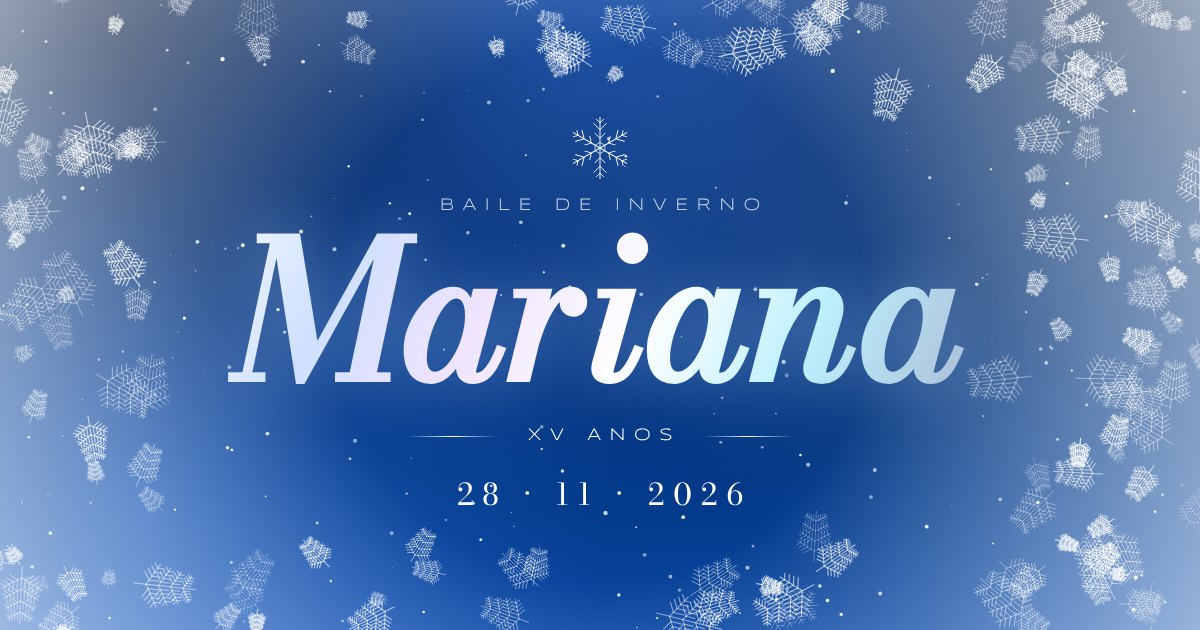
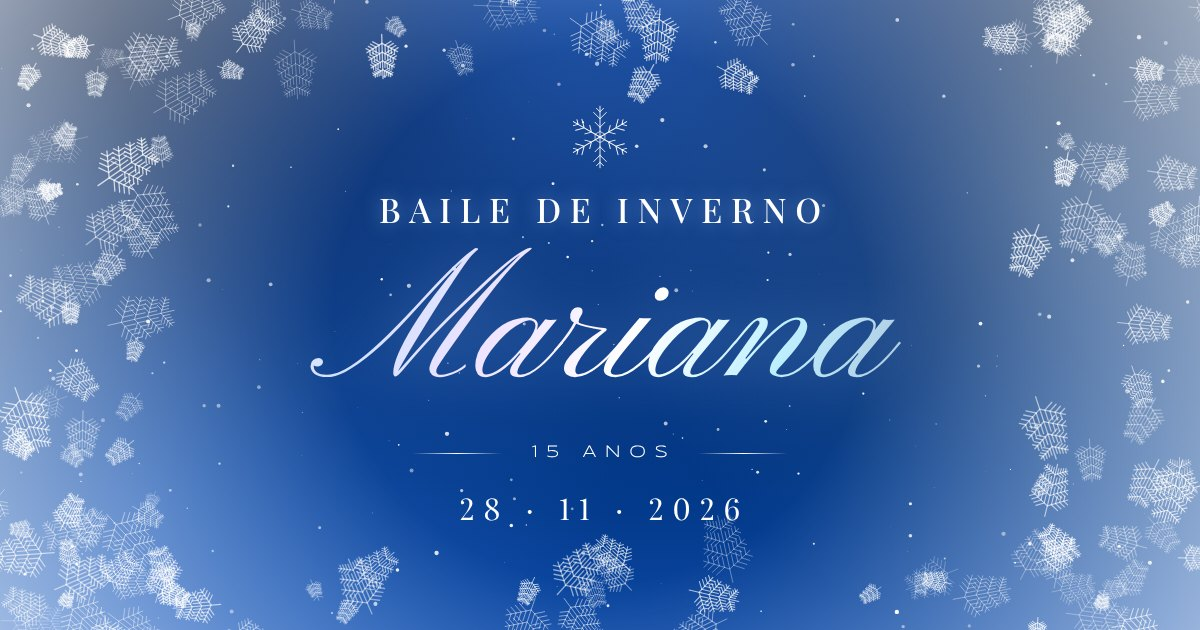
4.0

diff --git a/index.html b/index.html
@@ -3,12 +3,12 @@
 <head>
   <meta charset="UTF-8" />
   <meta name="viewport" content="width=device-width, initial-scale=1.0, viewport-fit=cover" />
-  <title>Mariana • XV Anos • Baile de Inverno</title>
+  <title>Mariana • 15 Anos • Baile de Inverno</title>
   <meta name="description" content="Você está convidado(a) para o Baile de Inverno dos 15 anos da Mariana — 28/11/2026, Buffet Piatto." />
   <!-- Prévia do WhatsApp: se o subdomínio for outro, troque o endereço abaixo -->
   <meta property="og:type" content="website" />
   <meta property="og:url" content="https://marianaxv.convidaeu.com.br/" />
-  <meta property="og:title" content="Mariana • XV Anos" />
+  <meta property="og:title" content="Mariana • 15 Anos" />
   <meta property="og:description" content="Baile de Inverno • 28.11.2026 • Buffet Piatto — toque para abrir o convite 💙" />
   <meta property="og:image" content="https://marianaxv.convidaeu.com.br/og.jpg" />
   <meta property="og:image:width" content="1200" />
@@ -17,13 +17,13 @@
   <meta name="theme-color" content="#001c4d" />
   <link rel="preconnect" href="https://fonts.googleapis.com">
   <link rel="preconnect" href="https://fonts.gstatic.com" crossorigin>
-  <link href="https://fonts.googleapis.com/css2?family=Bodoni+Moda:ital,opsz,wght@0,6..96,400..600;1,6..96,400..600&family=Manrope:wght@300;400;500;600&family=Syncopate:wght@400;700&display=swap" rel="stylesheet">
+  <link href="https://fonts.googleapis.com/css2?family=Playfair+Display:ital,wght@0,400..700;1,400..700&family=Great+Vibes&family=Pinyon+Script&family=Manrope:wght@300;400;500;600&family=Syncopate:wght@400;700&display=swap" rel="stylesheet">
   <style>
     :root{
       --royal-950:#000f2e; --royal-900:#001c4d; --royal-800:#013684; --royal-700:#0d4aa6; --royal-500:#2f6fd0;
       --ice:#e8eff9; --mist:rgba(232,239,249,.72); --hair:rgba(220,232,250,.32);
       --tx:0; --ty:0;
-      --serif:'Bodoni Moda',Didot,'Times New Roman',serif;
+      --serif:'Playfair Display',Georgia,'Times New Roman',serif;
       --wide:'Syncopate','Manrope',system-ui,sans-serif;
       --sans:'Manrope',system-ui,sans-serif;
     }
@@ -70,24 +70,26 @@
     /* ================= HERO (primeira tela) ================= */
     .hero{position:relative;z-index:2;min-height:100vh;min-height:100svh;display:flex;flex-direction:column;align-items:center;justify-content:center;
       text-align:center;padding:calc(56px + env(safe-area-inset-top)) 18px 110px}
+    .tema-hero{font-family:var(--serif);font-weight:500;text-transform:uppercase;font-size:clamp(1.05rem,5.2vw,1.45rem);letter-spacing:.26em;padding-left:.26em;color:#fff;
+      text-shadow:0 0 18px rgba(170,205,255,.45)}
     .cristal{width:86px;height:86px;margin:26px auto 18px;display:block;animation:gira 60s linear infinite;
       transform-origin:center;filter:drop-shadow(0 0 10px rgba(190,215,255,.55))}
     @keyframes gira{to{transform:rotate(360deg)}}
-    .nome{font-family:var(--serif);font-style:italic;font-weight:400;font-size:clamp(4.4rem,23vw,8.4rem);line-height:.92;letter-spacing:-.01em;
+    .nome{font-family:var(--fonte-nome,var(--serif));font-style:var(--estilo-nome,italic);font-weight:var(--peso-nome,500);font-size:calc(clamp(3.9rem,19vw,7.4rem) * var(--escala-nome,1));line-height:1.08;letter-spacing:0;
       padding:.08em .12em .14em}
     .xv{display:flex;align-items:center;gap:14px;margin-top:14px}
     .xv .fio{width:52px}
     .xv b{font-family:var(--wide);font-weight:400;font-size:11px;text-transform:uppercase;letter-spacing:.62em;padding-left:.62em;color:#fff}
-    .hero-data{margin-top:34px;font-family:var(--serif);font-size:1.15rem;letter-spacing:.32em;color:var(--ice)}
+    .hero-data{margin-top:34px;font-variant-numeric:lining-nums;font-family:var(--serif);font-size:1.15rem;letter-spacing:.32em;color:var(--ice)}
     .role{position:absolute;left:50%;bottom:calc(34px + env(safe-area-inset-bottom));transform:translateX(-50%);display:flex;flex-direction:column;align-items:center;gap:10px;
       opacity:0;transition:opacity 1s ease 1.2s}
     .aberto .role{opacity:1}
     .role i{display:block;width:1px;height:42px;background:linear-gradient(#fff,transparent);transform-origin:top;animation:desce 2.2s ease-in-out infinite}
     @keyframes desce{0%{transform:scaleY(0);opacity:1}60%{transform:scaleY(1);opacity:1}100%{transform:scaleY(1);opacity:0}}
     /* faixa de luz que passa pelo nome quando o gelo some */
-    .nome-wrap{position:relative;overflow:hidden}
+    .nome-wrap{position:relative}
     .nome-wrap::after{content:"";position:absolute;inset:0;background:linear-gradient(105deg,transparent 35%,rgba(255,255,255,.55) 50%,transparent 65%);
-      transform:translateX(-120%);mix-blend-mode:overlay;pointer-events:none}
+      transform:translateX(-120%);opacity:.45;pointer-events:none}
     .aberto .nome-wrap::after{animation:varre 1.6s ease .3s 1 forwards}
     @keyframes varre{to{transform:translateX(120%)}}
 
@@ -140,7 +142,7 @@
     .foto{max-width:300px;margin:0 auto;padding:10px;border:1px solid var(--hair);border-radius:200px 200px 18px 18px}
     .foto img{display:block;width:100%;aspect-ratio:3/4;object-fit:cover;border-radius:190px 190px 12px 12px}
 
-    .data-grande{font-family:var(--serif);font-weight:400;font-size:clamp(6rem,34vw,10.5rem);line-height:.86;letter-spacing:-.03em}
+    .data-grande{font-family:var(--serif);font-weight:400;font-variant-numeric:lining-nums;font-size:clamp(6rem,34vw,10.5rem);line-height:.86;letter-spacing:-.03em}
     .data-grande .pt{font-size:.5em;vertical-align:.32em;margin:0 .02em}
     .data-sub{margin-top:18px}
     .hora{display:flex;align-items:baseline;justify-content:center;gap:14px;margin-top:38px}
@@ -200,7 +202,7 @@
     .agenda svg{width:15px;height:15px}
 
     .fim{padding:40px 24px calc(40px + env(safe-area-inset-bottom));text-align:center}
-    .fim .assin{font-family:var(--serif);font-style:italic;font-size:1.5rem}
+    .fim .assin{font-family:var(--fonte-nome,var(--serif));font-style:var(--estilo-nome,italic);font-size:calc(1.6rem * var(--escala-nome,1))}
     .fim .wide{display:block;margin-top:10px;font-size:8.5px}
     .fim .marca{margin-top:46px;font-size:11px;color:rgba(255,255,255,.5);letter-spacing:.05em}
     .fim .marca a{color:rgba(255,255,255,.85);font-weight:600;text-decoration:none}
@@ -243,7 +245,7 @@
   <main id="convite">
     <!-- ===== HERO ===== -->
     <header class="hero" id="hero">
-      <p class="wide">Baile de Inverno</p>
+      <p class="tema-hero">Baile de Inverno</p>
 
       <svg class="cristal" viewBox="-50 -50 100 100" aria-hidden="true">
         <defs>
@@ -263,7 +265,7 @@
       </svg>
 
       <div class="nome-wrap"><h1 class="nome holo brilho" id="f-nome">Mariana</h1></div>
-      <div class="xv"><span class="fio"></span><b>XV Anos</b><span class="fio"></span></div>
+      <div class="xv"><span class="fio"></span><b>15 Anos</b><span class="fio"></span></div>
       <p class="hero-data" id="f-hero-data">28 · 11 · 2026</p>
 
       <div class="role" aria-hidden="true"><span class="wide" style="font-size:8px">role</span><i></i></div>
@@ -361,6 +363,7 @@
       texto: 'Em uma noite de inverno, entre luzes, cristais e flocos de neve, vou celebrar meus 15 anos. Será uma honra ter você comigo nesse baile, para viver cada momento dessa noite dos sonhos.',
       observacao: 'Para que a debutante brilhe ainda mais em sua noite dos sonhos, pedimos, com carinho, que os convidados evitem o uso de azul-claro em seus looks.',
       observacao2: 'Contamos com a compreensão e o carinho de todos! 💙',
+      fonteNome: 'pinyon',     // letra do nome: 'playfair' (itálico) | 'greatvibes' (cursiva) | 'pinyon' (caligrafia)
       musica: true,            // false = convite sem música
       volume: 0.55,            // 0 a 1
       duracaoHoras: 5          // usado só no "Salvar na agenda"
@@ -373,13 +376,25 @@
     const semana = ['Domingo','Segunda-feira','Terça-feira','Quarta-feira','Quinta-feira','Sexta-feira','Sábado'];
     const inicio = new Date(`${CONFIG.data}T${CONFIG.horario || '00:00'}:00-03:00`); // horário de Brasília
 
+    /* ---------- Letra do nome ---------- */
+    (function(){
+      const F = {
+        playfair:   ["'Playfair Display',Georgia,serif", 'italic', '500', 1],
+        greatvibes: ["'Great Vibes',cursive", 'normal', '400', 1.2],
+        pinyon:     ["'Pinyon Script',cursive", 'normal', '400', 1.05]
+      }[CONFIG.fonteNome] || ["'Playfair Display',Georgia,serif", 'italic', '500', 1];
+      const st = document.documentElement.style;
+      st.setProperty('--fonte-nome', F[0]); st.setProperty('--estilo-nome', F[1]);
+      st.setProperty('--peso-nome', F[2]); st.setProperty('--escala-nome', F[3]);
+    })();
+
     /* ---------- Textos ---------- */
     $('f-nome').textContent = CONFIG.nome;
     $('f-assin').textContent = CONFIG.nome;
     $('f-hero-data').textContent = `${dia} · ${mes} · ${ano}`;
     $('f-data-grande').innerHTML = `${dia}<span class="pt">.</span>${mes}`;
     $('f-semana').textContent = `${semana[new Date(`${CONFIG.data}T12:00:00-03:00`).getUTCDay()]} · ${ano}`;
-    $('f-assin2').textContent = `XV Anos · ${dia}.${mes}.${ano}`;
+    $('f-assin2').textContent = `15 Anos · ${dia}.${mes}.${ano}`;
     if (CONFIG.texto) $('f-texto').textContent = CONFIG.texto; else $('f-texto').closest('section').remove();
     if (!CONFIG.musica) $('abrirAlt').textContent = 'ou toque aqui para abrir';
 
@@ -538,22 +553,24 @@
     })(0);
 
     /* =========================================================
-       MÚSICA — valsa de caixinha de música, composta e tocada
-       pelo próprio navegador (não usa arquivo de áudio).
+       MÚSICA — faixa eletrônica original (pista, estilo "Alok"),
+       tocada pelo próprio navegador (não usa arquivo de áudio).
        ========================================================= */
     const Musica = (() => {
-      let ctx, master, bus, lp, ligada = false, prox = 0, compasso = 0;
-      const BEAT = 60 / 84;
+      let ctx, master, bus, duck, delayIn, ruido, ligada = false, prox = 0, passo = 0;
+      const BPM = 124, SEMI = 60 / BPM / 4;            // duração de 1/16
       const hz = (m) => 440 * Math.pow(2, (m - 69) / 12);
-      const ACORDE = { D:[62,66,69], Bm:[59,62,66], G:[55,59,62], A:[57,61,64], Fm:[54,57,61] };
-      const BAIXO  = { D:50, Bm:47, G:43, A:45, Fm:42 };
-      const SEQ = ['D','Bm','G','A', 'D','Fm','G','A', 'Bm','G','D','A', 'G','A','D','D'];
-      const MELODIA = [
-        [[78,2],[81,1]], [[83,2],[81,1]], [[79,1],[78,1],[76,1]], [[76,2],[73,1]],
-        [[74,2],[78,1]], [[81,2],[85,1]], [[83,1],[81,1],[79,1]], [[81,3]],
-        [[86,2],[83,1]], [[83,2],[79,1]], [[81,2],[78,1]], [[76,2],[81,1]],
-        [[79,1],[83,1],[86,1]], [[85,1.5],[83,.5],[81,1]], [[78,1],[81,1],[86,1]], [[86,3]]
+      // Si menor – Sol – Ré – Lá
+      const ACORDES = [[59,62,66,71], [59,62,67,71], [57,62,66,69], [57,61,64,69]];
+      const BAIXO = [47, 43, 50, 45];
+      const LEAD = [
+        {0:78, 3:81, 6:83, 8:81, 10:78, 12:76, 14:78},
+        {0:83, 3:81, 6:79, 8:78, 10:79, 12:83, 14:81},
+        {0:81, 3:78, 6:74, 8:78, 10:81, 12:86, 14:85},
+        {0:85, 3:83, 6:81, 8:76, 10:81, 12:83, 14:85}
       ];
+      const INTRO = 2;                                 // compassos sem batida antes do "drop"
+
       function eco(seg) {
         const len = Math.floor(ctx.sampleRate * seg), buf = ctx.createBuffer(2, len, ctx.sampleRate);
         for (let c = 0; c < 2; c++) { const d = buf.getChannelData(c); for (let i = 0; i < len; i++) d[i] = (Math.random() * 2 - 1) * Math.pow(1 - i / len, 3); }
@@ -562,59 +579,93 @@
       function montar() {
         const AC = window.AudioContext || window.webkitAudioContext;
         ctx = new AC();
-        const comp = ctx.createDynamicsCompressor();
+        const comp = ctx.createDynamicsCompressor(); comp.threshold.value = -14; comp.ratio.value = 4;
         master = ctx.createGain(); master.gain.value = 0.0001;
-        bus = ctx.createGain();
-        const seco = ctx.createGain(); seco.gain.value = 0.8;
-        const molhado = ctx.createGain(); molhado.gain.value = 0.5;
-        const rev = ctx.createConvolver(); rev.buffer = eco(2.8);
-        bus.connect(seco); bus.connect(rev); rev.connect(molhado);
-        seco.connect(master); molhado.connect(master);
+        bus = ctx.createGain(); bus.connect(master);
+        const rev = ctx.createConvolver(); rev.buffer = eco(2.2);
+        const molhado = ctx.createGain(); molhado.gain.value = 0.28;
+        bus.connect(rev); rev.connect(molhado); molhado.connect(master);
+        duck = ctx.createGain(); duck.connect(bus);     // acordes "respiram" a cada batida
+        delayIn = ctx.createGain();                     // eco rítmico da melodia
+        const dl = ctx.createDelay(1); dl.delayTime.value = SEMI * 3;
+        const fb = ctx.createGain(); fb.gain.value = 0.32;
+        const dw = ctx.createGain(); dw.gain.value = 0.3;
+        delayIn.connect(bus); delayIn.connect(dl); dl.connect(fb); fb.connect(dl); dl.connect(dw); dw.connect(bus);
         master.connect(comp); comp.connect(ctx.destination);
-        lp = ctx.createBiquadFilter(); lp.type = 'lowpass'; lp.frequency.value = 900; lp.connect(bus);
+        ruido = ctx.createBuffer(1, ctx.sampleRate, ctx.sampleRate);
+        const d = ruido.getChannelData(0); for (let i = 0; i < d.length; i++) d[i] = Math.random() * 2 - 1;
       }
-      function caixinha(m, t, vol, dur = 2.4) {
-        const f = hz(m);
-        [[1, 1, dur], [2, .26, dur * .5], [3.98, .07, dur * .22]].forEach(([mul, g, d]) => {
-          const o = ctx.createOscillator(), a = ctx.createGain();
-          o.type = 'sine'; o.frequency.value = f * mul;
-          a.gain.setValueAtTime(0.0001, t);
-          a.gain.exponentialRampToValueAtTime(vol * g, t + 0.006);
-          a.gain.exponentialRampToValueAtTime(0.0001, t + d);
-          o.connect(a); a.connect(bus); o.start(t); o.stop(t + d + 0.05);
-        });
+      function env(a, t, pico, dur, ataque = 0.004) {
+        a.gain.setValueAtTime(0.0001, t);
+        a.gain.exponentialRampToValueAtTime(pico, t + ataque);
+        a.gain.exponentialRampToValueAtTime(0.0001, t + dur);
       }
-      function fundo(notas, t, dur) {
-        notas.forEach((m) => [-5, 5].forEach((det) => {
+      function bumbo(t) {
+        const o = ctx.createOscillator(), a = ctx.createGain();
+        o.type = 'sine'; o.frequency.setValueAtTime(165, t); o.frequency.exponentialRampToValueAtTime(48, t + 0.12);
+        env(a, t, 0.95, 0.38); o.connect(a); a.connect(master); o.start(t); o.stop(t + 0.4);
+        chiado(t, 0.06, 0.012, 'lowpass', 3500);
+        duck.gain.cancelScheduledValues(t);
+        duck.gain.setValueAtTime(0.3, t); duck.gain.linearRampToValueAtTime(1, t + 0.24);
+      }
+      function chiado(t, vol, dur, tipo, freq) {
+        const s = ctx.createBufferSource(), f = ctx.createBiquadFilter(), a = ctx.createGain();
+        s.buffer = ruido; f.type = tipo; f.frequency.value = freq;
+        env(a, t, vol, dur, 0.002); s.connect(f); f.connect(a); a.connect(bus);
+        s.start(t, Math.random() * 0.9, dur + 0.03);
+      }
+      function palma(t) {
+        chiado(t, 0.16, 0.02, 'bandpass', 1400); chiado(t + 0.012, 0.16, 0.02, 'bandpass', 1400);
+        chiado(t + 0.024, 0.3, 0.17, 'bandpass', 1300);
+      }
+      function baixo(m, t, dur) {
+        const o = ctx.createOscillator(), sub = ctx.createOscillator(), f = ctx.createBiquadFilter(), a = ctx.createGain(), as = ctx.createGain();
+        o.type = 'sawtooth'; o.frequency.value = hz(m); sub.type = 'sine'; sub.frequency.value = hz(m);
+        f.type = 'lowpass'; f.Q.value = 6;
+        f.frequency.setValueAtTime(220, t); f.frequency.exponentialRampToValueAtTime(1100, t + 0.03); f.frequency.exponentialRampToValueAtTime(260, t + dur);
+        env(a, t, 0.28, dur); env(as, t, 0.22, dur);
+        o.connect(f); f.connect(a); a.connect(master); sub.connect(as); as.connect(master);
+        o.start(t); sub.start(t); o.stop(t + dur + 0.05); sub.stop(t + dur + 0.05);
+      }
+      function acorde(notas, t, dur, vol) {
+        const f = ctx.createBiquadFilter(); f.type = 'lowpass'; f.frequency.value = 1900; f.connect(duck);
+        notas.forEach((m) => [-9, 0, 9].forEach((det) => {
           const o = ctx.createOscillator(), a = ctx.createGain();
-          o.type = 'triangle'; o.frequency.value = hz(m); o.detune.value = det;
-          a.gain.setValueAtTime(0.0001, t);
-          a.gain.linearRampToValueAtTime(0.022, t + 0.7);
-          a.gain.setValueAtTime(0.022, t + dur - 0.2);
-          a.gain.linearRampToValueAtTime(0.0001, t + dur + 0.7);
-          o.connect(a); a.connect(lp); o.start(t); o.stop(t + dur + 0.8);
+          o.type = 'sawtooth'; o.frequency.value = hz(m); o.detune.value = det;
+          a.gain.setValueAtTime(0.0001, t); a.gain.linearRampToValueAtTime(vol, t + 0.03);
+          a.gain.setValueAtTime(vol, t + dur - 0.08); a.gain.linearRampToValueAtTime(0.0001, t + dur + 0.12);
+          o.connect(a); a.connect(f); o.start(t); o.stop(t + dur + 0.15);
         }));
       }
-      function baixo(m, t) {
-        [[1, .16], [2, .07]].forEach(([mul, g]) => {
-          const o = ctx.createOscillator(), a = ctx.createGain();
-          o.type = 'sine'; o.frequency.value = hz(m) * mul;
-          a.gain.setValueAtTime(0.0001, t);
-          a.gain.exponentialRampToValueAtTime(g, t + 0.02);
-          a.gain.exponentialRampToValueAtTime(0.0001, t + 1.8);
-          o.connect(a); a.connect(bus); o.start(t); o.stop(t + 1.9);
-        });
+      function pluck(m, t, vol) {
+        const o = ctx.createOscillator(), f = ctx.createBiquadFilter(), a = ctx.createGain();
+        o.type = 'square'; o.frequency.value = hz(m);
+        f.type = 'lowpass'; f.frequency.setValueAtTime(4200, t); f.frequency.exponentialRampToValueAtTime(600, t + 0.22);
+        env(a, t, vol, 0.32); o.connect(f); f.connect(a); a.connect(delayIn); o.start(t); o.stop(t + 0.35);
+      }
+      function subida(t, dur) {                         // "chiado" que sobe antes da batida entrar
+        const s = ctx.createBufferSource(), f = ctx.createBiquadFilter(), a = ctx.createGain();
+        s.buffer = ruido; s.loop = true; f.type = 'highpass';
+        f.frequency.setValueAtTime(300, t); f.frequency.exponentialRampToValueAtTime(7000, t + dur);
+        a.gain.setValueAtTime(0.0001, t); a.gain.exponentialRampToValueAtTime(0.16, t + dur); a.gain.linearRampToValueAtTime(0.0001, t + dur + 0.05);
+        s.connect(f); f.connect(a); a.connect(bus); s.start(t); s.stop(t + dur + 0.06);
       }
       function agendar() {
-        while (prox < ctx.currentTime + 0.6) {
-          const n = compasso % SEQ.length, c = SEQ[n], t = prox;
-          fundo(ACORDE[c], t, BEAT * 3);
-          baixo(BAIXO[c], t);
-          [1, 2].forEach((b) => ACORDE[c].slice(1).forEach((m) => caixinha(m, t + b * BEAT, 0.045, 1.1)));
-          let off = 0;
-          MELODIA[n].forEach(([m, d]) => { caixinha(m, t + off * BEAT, 0.17); off += d; });
-          if (n % 4 === 3) caixinha(ACORDE[c][0] + 36, t + 2.5 * BEAT, 0.035, 1.6);
-          prox += BEAT * 3; compasso++;
+        while (prox < ctx.currentTime + 0.25) {
+          const t = prox, compasso = Math.floor(passo / 16), s = passo % 16, intro = compasso < INTRO;
+          const i = intro ? compasso % 4 : (compasso - INTRO) % 4;
+          if (s === 0) acorde(ACORDES[i], t, SEMI * 16, intro ? 0.016 : 0.02);
+          if (intro) {
+            if (s % 4 === 2) chiado(t, 0.05, 0.05, 'highpass', 8000);
+            if (compasso === INTRO - 1 && s === 0) subida(t, SEMI * 16);
+          } else {
+            if (s % 4 === 0) bumbo(t);
+            if (s === 4 || s === 12) palma(t);
+            if (s % 4 === 2) { baixo(BAIXO[i], t, SEMI * 1.7); chiado(t, 0.07, 0.07, 'highpass', 7500); }
+            if (s % 2 === 1) chiado(t, 0.025, 0.025, 'highpass', 9500);
+          }
+          const nota = LEAD[i][s]; if (nota) pluck(nota, t, intro ? 0.06 : 0.08);
+          prox += SEMI; passo++;
         }
       }
       function fade(alvo, seg) {
@@ -624,22 +675,21 @@
         master.gain.exponentialRampToValueAtTime(Math.max(alvo, 0.0001), t + seg);
       }
       return {
-        iniciar() {                               // precisa ser chamado dentro de um toque
+        iniciar() {                                     // precisa ser chamado dentro de um toque
           if (ctx) { if (ligada && ctx.state !== 'running') ctx.resume(); return true; }
           try {
             if (navigator.audioSession) navigator.audioSession.type = 'playback';
             montar(); ctx.resume();
             const t = ctx.currentTime + 0.05;
-            [74, 78, 81, 86].forEach((m, i) => caixinha(m, t + i * 0.12, 0.12, 2.2));
-            prox = t + 1.3;
-            setInterval(agendar, 100); agendar();
-            fade(CONFIG.volume, 2.5);
+            [74, 78, 81, 86, 90].forEach((m, k) => pluck(m, t + k * 0.07, 0.08)); // brilho ao abrir
+            prox = t + 0.5;
+            setInterval(agendar, 50); agendar();
+            fade(CONFIG.volume, 1.5);
             ligada = true;
             return true;
           } catch (e) { return false; }
         },
         tocando: () => !!ctx && ligada && ctx.state === 'running',
-        // true = deveria estar tocando mas o celular ainda não liberou o som
         precisaDestravar: () => !ctx || (ligada && ctx.state !== 'running'),
         alternar() {
           if (!ctx) { Musica.iniciar(); return true; }
